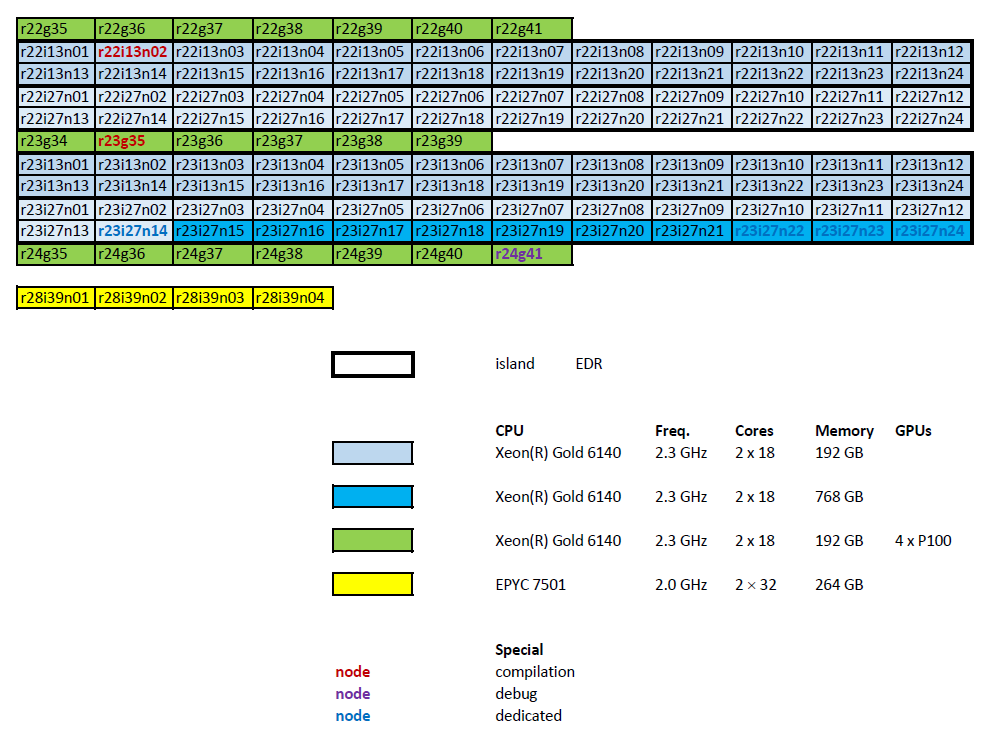
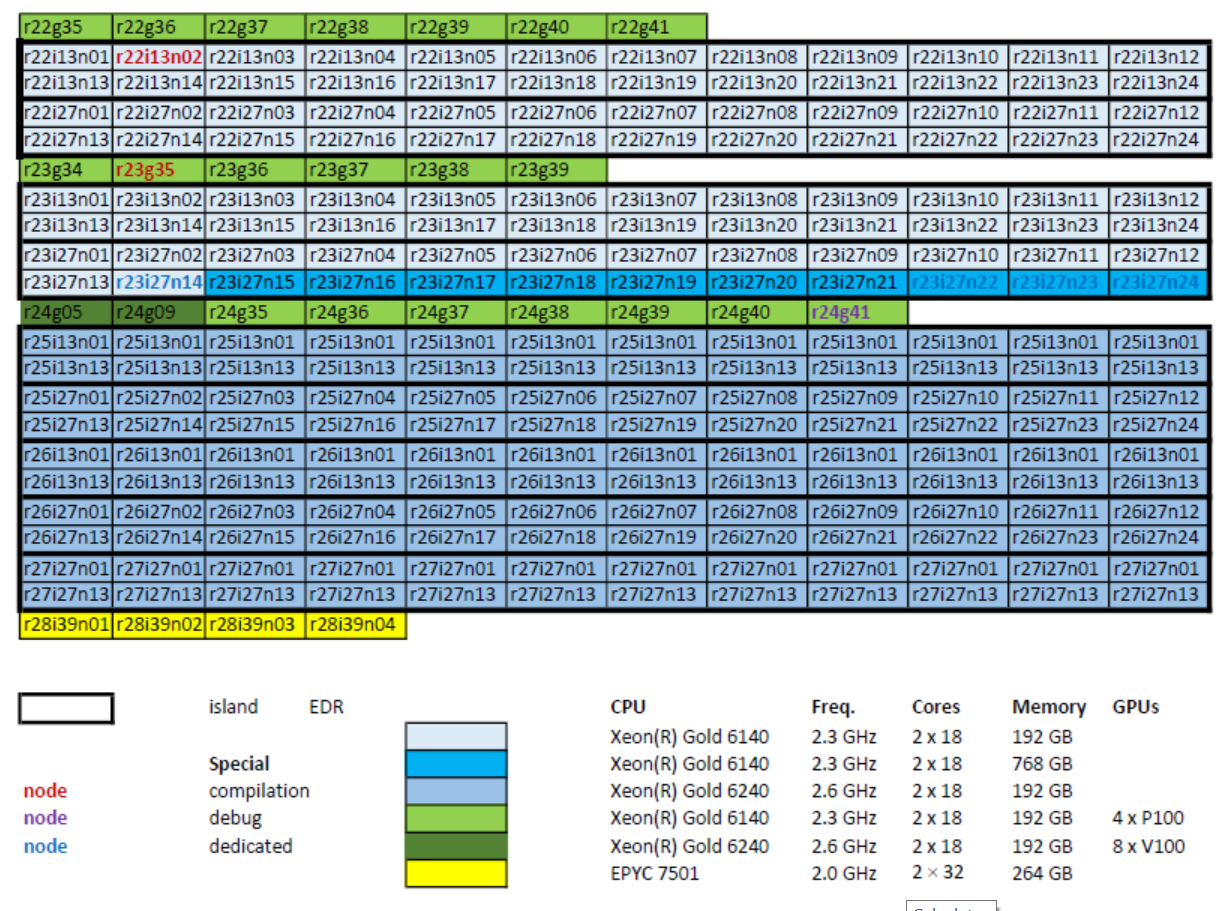
adding info on cascadelake nodes

diff --git a/source/leuven/tier2_hardware/genius_hardware.rst b/source/leuven/tier2_hardware/genius_hardware.rst
@@ -10,11 +10,19 @@ Genius is KU Leuven/UHasselt's most recent Tier-2 cluster. It has thin nodes, la
 Hardware details
 ----------------
 
-- 86 thin nodes
-
+- 206 thin nodes 
+   
+    - 86 nodes
     - 2 Xeon Gold 6140 CPUs\@2.3 GHz (Skylake), 18 cores each
     - 192 GB RAM
     - 200 GB SSD local disk
+    - feature skylake
+
+    - 120 nodes (closed pilot phase)
+    - 2 Xeon Gold 6240 CPUs\@2.6 GHz (Cascadelake), 18 cores each
+    - 192 GB RAM
+    - 200 GB SSD local disk
+    - feature cascadelake 
 
 - 10 big memory nodes
 
@@ -23,13 +31,20 @@ Hardware details
    - 200 GB SSD local disk
    - partition ``bigmem``, specific ``qsub`` :ref:`options <submit to genius big memory node>` apply.
 
-- 20 GPGPU nodes
+- 22 GPGPU nodes, 96 GPU devices
 
+   - 20 nodes
    - 2 Xeon Gold 6140 CPUs\@2.3 GHz (Skylake), 18 cores each
    - 192 GB RAM
-   - 4 NVIDIA P100\@1.3 GHz, 16 GB GDDR, connected with NVLink
+   - 4 NVIDIA P100 SXM2\@1.3 GHz, 16 GB GDDR, connected with NVLink
    - 200 GB SSD local disk
    - partition ``gpu``, specific ``qsub`` :ref:`options <submit to genius GPU node>` apply.
+
+   - 2 nodes (closed pilot phase)
+   - 2 Xeon Gold 6240 CPUs\@2.6 GHz (Cascadelake), 18 cores each
+   - 192 GB RAM
+   - 8 NVIDIA V100 SXM2\@1.5 GHz, 32 GB GDDR, connected with NVLink
+
 
 - 4 AMD nodes
 
